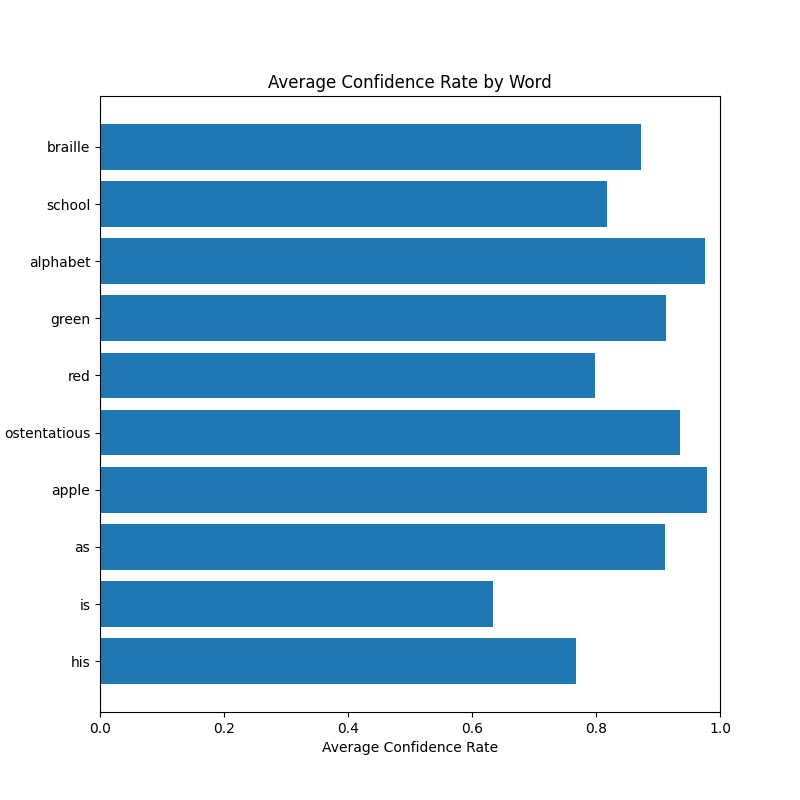
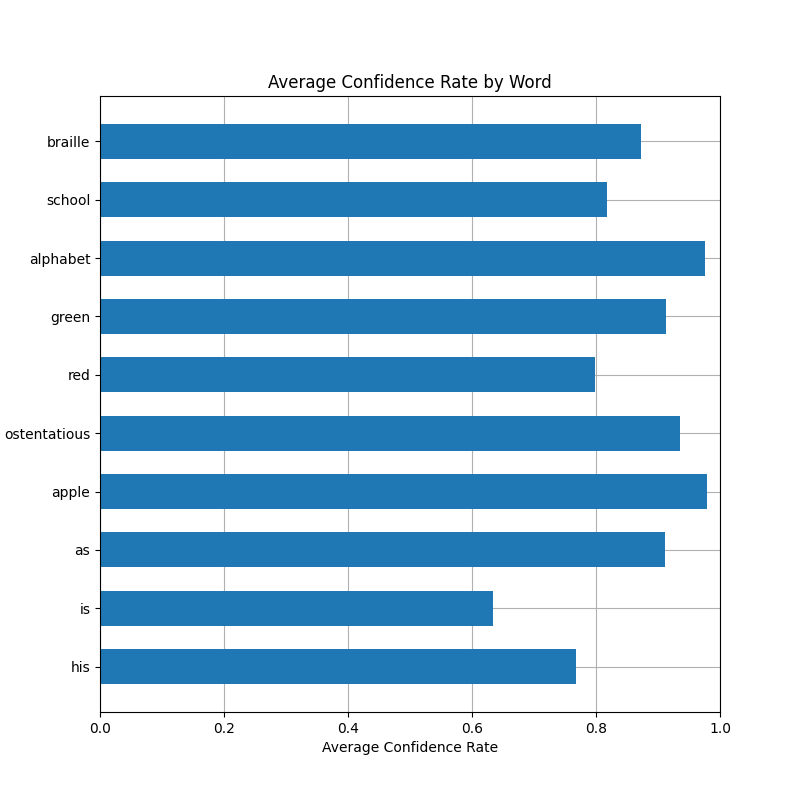
Added a grid and decreased with of bars

diff --git a/software/pi3-tests/graph.py b/software/pi3-tests/graph.py
@@ -25,12 +25,18 @@ for file in os.listdir():
                     expected[row[0]] = [row]
 
 fig,ax = plt.subplots(figsize=(8, 8))
-ax.barh(list(expected.keys()), [len([x for x in expected[word] if x[0] != x[1]])/len(expected[word]) for word in expected.keys()])
+ax.barh(
+    list(expected.keys()),
+    [len([x for x in expected[word] if x[0] != x[1]])/len(expected[word]) for word in expected.keys()],
+    height=.6
+)
 ax.set_xlabel('Misclassification Rate')
 ax.set_ylabel('Word')
 ax.set_title('Misclassification Rate by Word')
 ax.set_xlim(0, 1)
 ax.set_xticks([0, 0.2, 0.4, 0.6, 0.8, 1])
+ax.grid()
+ax.set_axisbelow(True)
 # save 
 plt.savefig('misclassification_rate.png')
 
@@ -39,11 +45,13 @@ fig,ax = plt.subplots(figsize=(8, 8))
 average = {}
 for word in expected.keys():
     average[word] = sum([float(x[2]) for x in expected[word]])/len(expected[word])
-ax.barh(list(average.keys()), list(average.values()))
+ax.barh(list(average.keys()), list(average.values()), height=.6)
 ax.set_xlabel('Average Confidence Rate')
 ax.set_ylabel('Word')
 ax.set_title('Average Confidence Rate by Word')
 ax.set_xlim(0, 1)
 ax.set_xticks([0, 0.2, 0.4, 0.6, 0.8, 1])
+ax.grid()
+ax.set_axisbelow(True)  # used to put grid behind data
 # save
 plt.savefig('average_confidence_rate.png')
